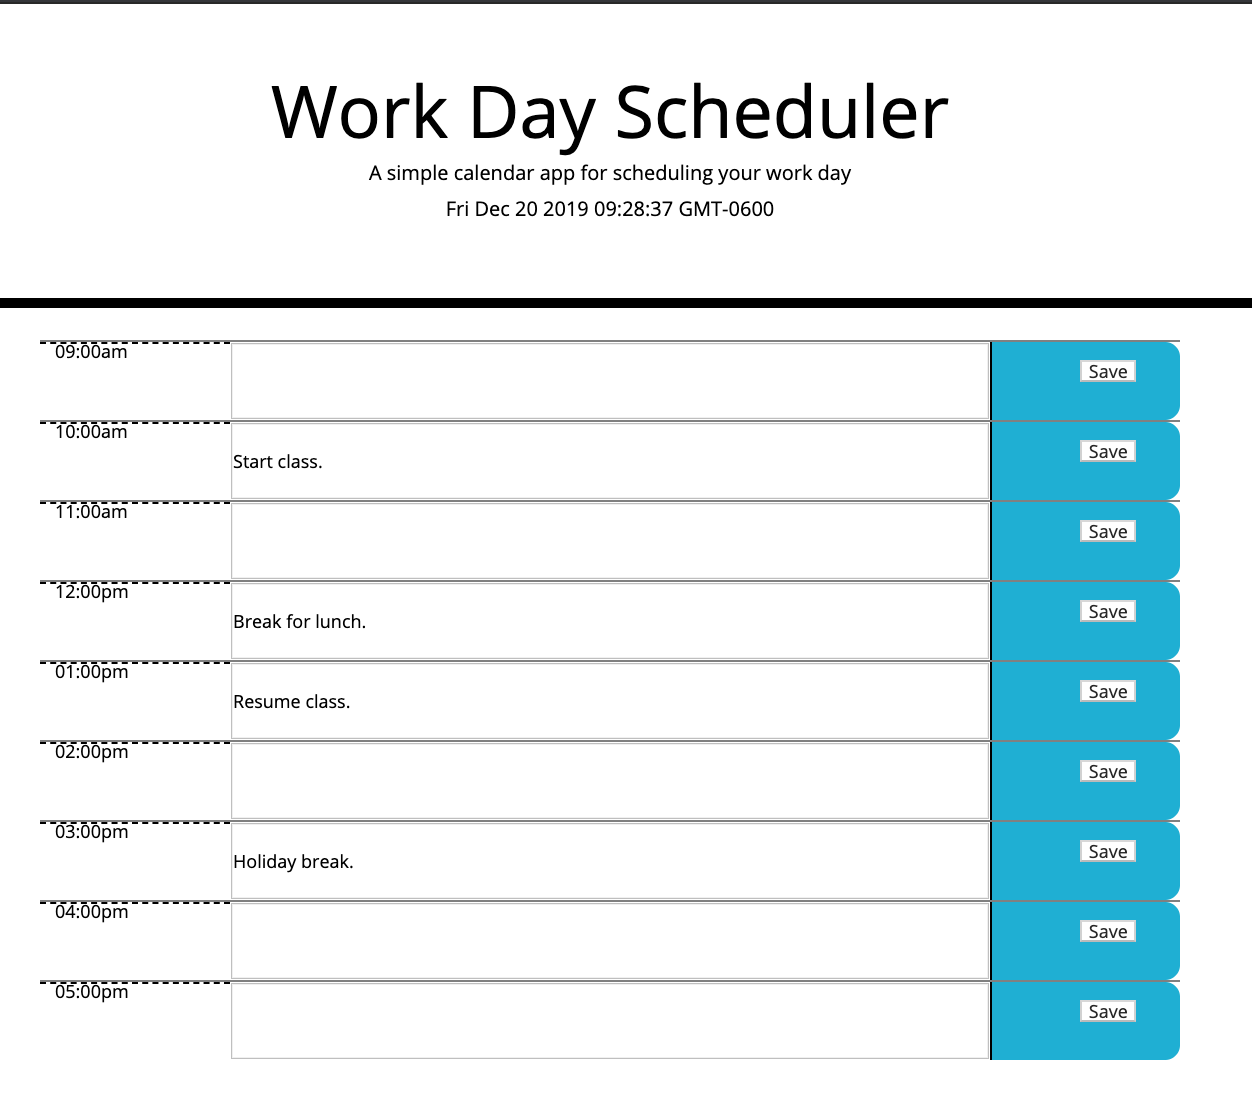
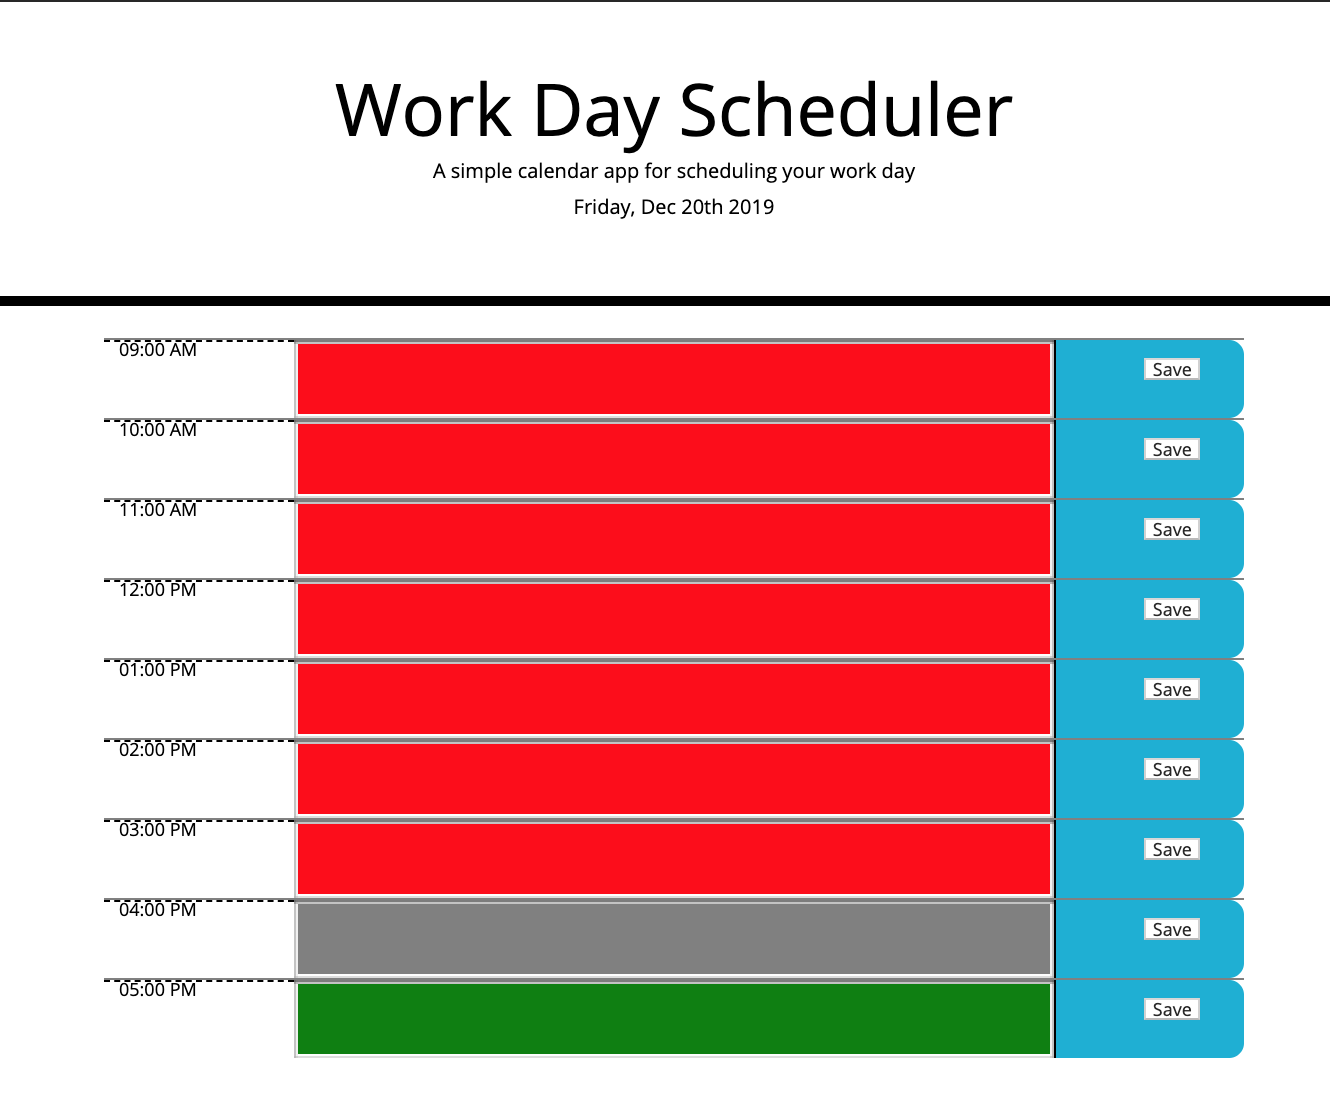
Changed screenshot for readme. Added conditional statements for color changing functionality based on time.

diff --git a/script.js b/script.js
@@ -32,10 +32,134 @@ $(document).ready(function () {
     // END GLOBAL VARIABLES
 
     function updateTime() {
-        var currentDay = $("#currentDay").text(moment());
+        // var currentDay = $("#currentDay").text(moment());
+        var currentDay = $("#currentDay").text(moment().format('dddd, MMM Do YYYY'));
     }
 
     setInterval(updateTime, 1000);
+
+    var currentTime = moment().format('HH');
+    console.log(currentTime);
+
+    // BEGIN COLOR CODE TIME VARIABLES
+    // Color 9am
+    var timeNine = moment('09:00 AM', 'hh:mm A').format('hh:mm A');
+    var milNine = moment("09", "HH").format("HH");
+    $("#timeNine").text(timeNine);
+
+    if (milNine < currentTime) {
+        $("#inputNine").css("background-color", "red")
+    } else if (milNine === currentTime) {
+        $("#inputNine").css("background-color", "gray");
+    } else {
+        $("#inputNine").css("background-color", "green");
+    }
+
+    // Color 10am
+    var timeTen = moment('10:00 AM', 'hh:mm A').format('hh:mm A');
+    var milTen = moment("10", "HH").format("HH");
+    $("#timeTen").text(timeTen);
+
+    if (milTen < currentTime) {
+        $("#inputTen").css("background-color", "red")
+    } else if (milTen === currentTime) {
+        $("#inputTen").css("background-color", "gray");
+    } else {
+        $("#inputTen").css("background-color", "green");
+    }
+
+    // Color 11am
+    var timeEleven = moment('11:00 AM', 'hh:mm A').format('hh:mm A');
+    var milEleven = moment("11", "HH").format("HH");
+    $("#timeEleven").text(timeEleven);
+
+    if (milEleven < currentTime) {
+        $("#inputEleven").css("background-color", "red")
+    } else if (milEleven === currentTime) {
+        $("#inputEleven").css("background-color", "gray");
+    } else {
+        $("#inputEleven").css("background-color", "green");
+    }
+
+    // Color 12pm
+    var timeTwelve = moment('12:00 PM', 'hh:mm A').format('hh:mm A');
+    var milTwelve = moment("12", "HH").format("HH");
+    $("#timeTwelve").text(timeTwelve);
+
+    if (milTwelve < currentTime) {
+        $("#inputTwelve").css("background-color", "red")
+    } else if (milTwelve === currentTime) {
+        $("#inputTwelve").css("background-color", "gray");
+    } else {
+        $("#inputTwelve").css("background-color", "green");
+    }
+
+    // Color 1pm
+    var timeThirteen = moment('01:00 PM', 'hh:mm A').format('hh:mm A');
+    var milThirteen = moment("13", "HH").format("HH");
+    $("#timeThirteen").text(timeThirteen);
+
+    if (milThirteen < currentTime) {
+        $("#inputThirteen").css("background-color", "red")
+    } else if (milThirteen === currentTime) {
+        $("#inputThirteen").css("background-color", "gray");
+    } else {
+        $("#inputThirteen").css("background-color", "green");
+    }
+
+    // Color 2pm
+    var timeFourteen = moment('02:00 PM', 'hh:mm A').format('hh:mm A');
+    var milFourteen = moment("14", "HH").format("HH");
+    $("#timeFourteen").text(timeFourteen);
+
+    if (milFourteen < currentTime) {
+        $("#inputFourteen").css("background-color", "red")
+    } else if (milFourteen === currentTime) {
+        $("#inputFourteen").css("background-color", "gray");
+    } else {
+        $("#inputFourteen").css("background-color", "green");
+    }
+
+    // Color 3pm
+    var timeFifteen = moment('03:00 PM', 'hh:mm A').format('hh:mm A');
+    var milFifteen = moment("15", "HH").format("HH");
+    $("#timeFifteen").text(timeFifteen);
+
+    if (milFifteen < currentTime) {
+        $("#inputFifteen").css("background-color", "red")
+    } else if (milFifteen === currentTime) {
+        $("#inputFifteen").css("background-color", "gray");
+    } else {
+        $("#inputFifteen").css("background-color", "green");
+    }
+
+    // Color 4pm
+    var timeSixteen = moment('04:00 PM', 'hh:mm A').format('hh:mm A');
+    var milSixteen = moment("16", "HH").format("HH");
+    $("#timeSixteen").text(timeSixteen);
+
+    if (milSixteen < currentTime) {
+        $("#inputSixteen").css("background-color", "red");
+    } else if (milSixteen === currentTime) {
+        $("#inputSixteen").css("background-color", "gray");
+    } else {
+        $("#inputSixteen").css("background-color", "green");
+    }
+
+    // Color 5pm
+    var timeSeventeen = moment('05:00 PM', 'hh:mm A').format('hh:mm A');
+    var milSeventeen = moment("17", "HH").format("HH");
+    $("#timeSeventeen").text(timeSeventeen);
+
+    if (milSeventeen < currentTime) {
+        $("#inputSeventeen").css("background-color", "red")
+    } else if (milSeventeen === currentTime) {
+        $("#inputSeventeen").css("background-color", "gray");
+    } else {
+        $("#inputSeventeen").css("background-color", "green");
+    }
+
+    // END COLOR CODE TIME VARIABLES
 
 
     // if (currentDay !== $("#timeNine").text) {

diff --git a/index.html b/index.html
@@ -22,7 +22,7 @@
     <div class="container">
         <!-- Timeblocks go here -->
         <div class="row" id="nine">
-            <div class="col-sm-2 hour" id="timeNine">09:00am</div>
+            <div class="col-sm-2 hour" id="timeNine"></div>
             <div class="col-sm-8 input">
                 <input type="text" id="inputNine">
             </div>

diff --git a/README.md b/README.md
@@ -18,26 +18,27 @@ The deployed project should look like this.
 
 Below is the link to the project repository followed by the link to the live website. 
 
-https://github.com/jcw2865/homework-4
-https://jcw2865.github.io/homework-4/
+https://github.com/jcw2865/homework-5
+
+https://jcw2865.github.io/homework-5/
 
 ### Development
 
-Below are the steps I took to create the project as it is so far. Understanding the project is still incomplete at its current stage, it has still been a very useful exercise. I definitely gained a greater understanding of JS and JQUERY in the process. 
+Below are the steps I took to create the project as it is so far. In creating this project, I attempted to be a little more disciplined in my structuring and labeling with comments. This project did require an extensive amount of research with regards to moment.js and setItem/getItem. 
 
-1. Created index.html, style1.css, questions.js, and script.js. 
+1. Created index.html, style1.css, moment.js, and script.js. 
 
 2. General HTML document structure added to index.html. 
 
-3. Bootstrap styling, style1.css, questions.js, and script.js linked to index.html. 
+3. Linked additional documents and stylesheets to index.html.
 
-4. Variables that I knew I needed were created and console.log'd for verification. 
+4. Developed functionality with the buttons. Verified with click alerts and added variables as needed. 
 
-5. Event listeners created for clicking buttons.
+5. After creating the buttons and verifying their functionality, I focused on the setItem functionality.
 
-6. Loops created inside of event listeners in an attempt to keep my code DRY (and not repeat myself). 
+6. Once I saw that the setItem functions were storing information in the inspector, I created the getItem functions. 
 
-7. From this point on, it was a long road of "plug-and-play": running the code, looking at the inspector feedback, and adjusting as I thought best.
+7. Heavy research into moment.js to figure out how to use setInterval and how to set conditional color functions.
 
 ## Testing
 
